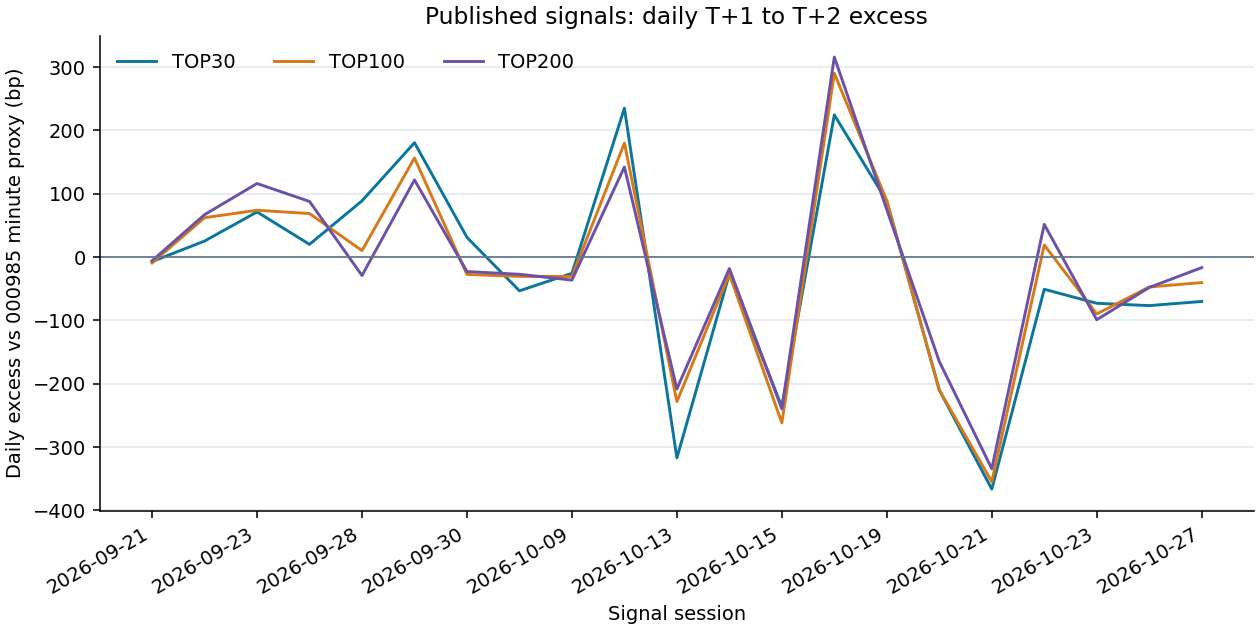
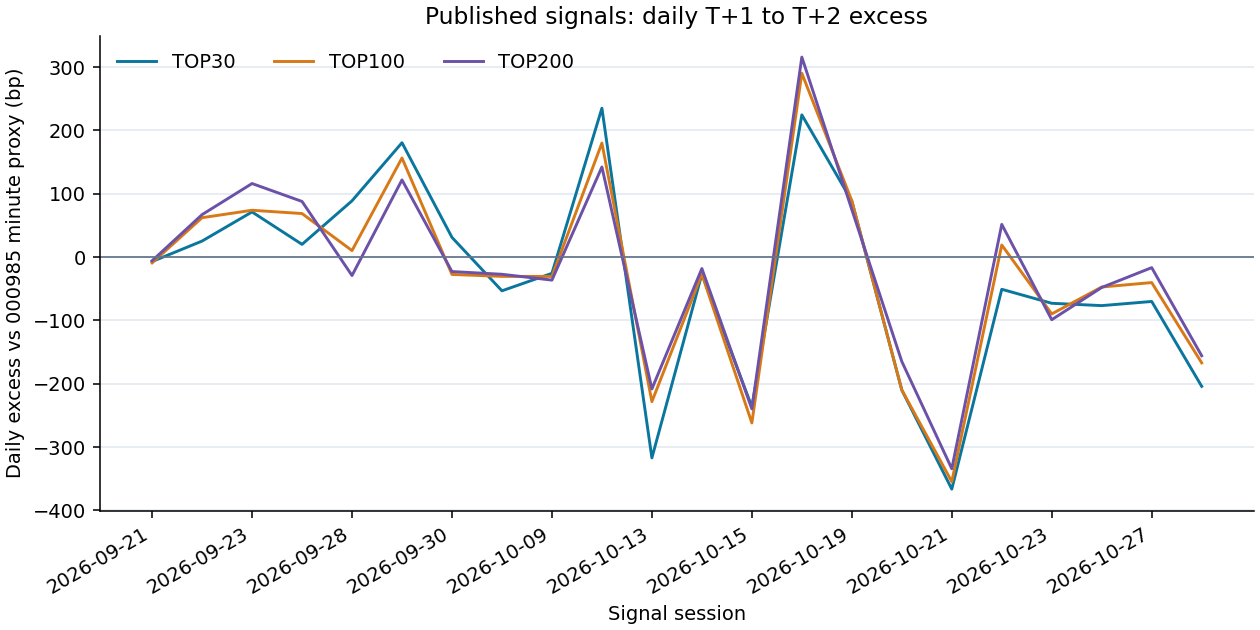
Update published signal performance through 2026-10-30

diff --git a/README.md b/README.md
@@ -17,13 +17,13 @@ CSV 编码为 UTF-8 BOM，按 `signal` 降序排列。
 <!-- PUBLIC_PERFORMANCE_START -->
 ## 已发布信号的历史表现
 
-仅统计本仓库 `signals/YYYY-MM-DD.csv` 已上传且买卖两日行情均完整的信号；截至 **2026-10-29**，共有 **21** 个已完成信号日，另有 **2** 个待结算或数据未齐。样本很短，暂无统计显著性结论。
+仅统计本仓库 `signals/YYYY-MM-DD.csv` 已上传且买卖两日行情均完整的信号；截至 **2026-10-30**，共有 **22** 个已完成信号日，另有 **1** 个待结算或数据未齐。样本很短，暂无统计显著性结论。
 
 | 组合 | 已完成信号日 | 组合累计收益 | 000985同期收益 | 累计超额 |
 |---|---:|---:|---:|---:|
-| TOP30 | 21 | -19.18% | -14.24% | -5.76% |
-| TOP100 | 21 | -18.00% | -14.24% | -4.38% |
-| TOP200 | 21 | -16.85% | -14.24% | -3.04% |
+| TOP30 | 22 | -22.38% | -15.89% | -7.72% |
+| TOP100 | 22 | -20.94% | -15.89% | -6.01% |
+| TOP200 | 22 | -19.74% | -15.89% | -4.58% |
 
 ![TOP30、TOP100、TOP200 累计超额净值](performance/excess_nav.png)
 
@@ -33,7 +33,6 @@ CSV 编码为 UTF-8 BOM，按 `signal` 降序排列。
 
 | 信号日 | 卖出日 | TOP30 | TOP100 | TOP200 |
 |---|---|---:|---:|---:|
-| 2026-10-14 | 2026-10-16 | -26.70 | -26.79 | -18.05 |
 | 2026-10-15 | 2026-10-19 | -236.30 | -261.74 | -239.53 |
 | 2026-10-16 | 2026-10-20 | +224.57 | +290.26 | +315.78 |
 | 2026-10-19 | 2026-10-21 | +88.42 | +88.98 | +75.06 |
@@ -43,6 +42,7 @@ CSV 编码为 UTF-8 BOM，按 `signal` 降序排列。
 | 2026-10-23 | 2026-10-27 | -72.87 | -89.67 | -98.82 |
 | 2026-10-26 | 2026-10-28 | -76.55 | -47.17 | -47.91 |
 | 2026-10-27 | 2026-10-29 | -70.00 | -40.18 | -16.61 |
+| 2026-10-28 | 2026-10-30 | -204.01 | -166.91 | -155.69 |
 
 ![TOP30、TOP100、TOP200 逐日超额](performance/daily_excess.png)
 
